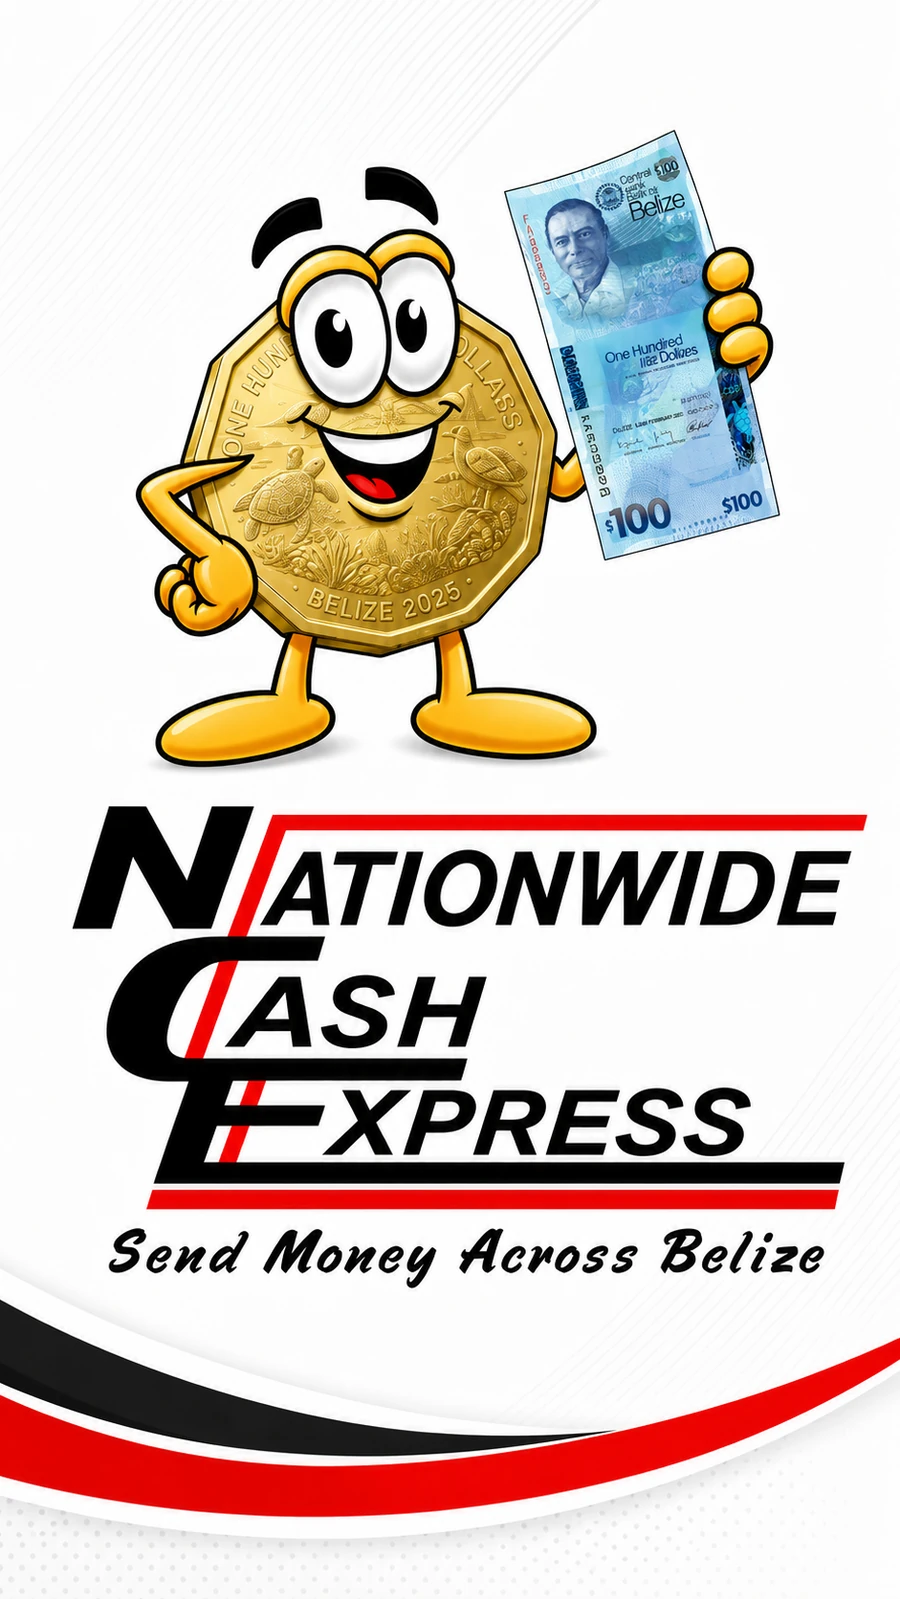
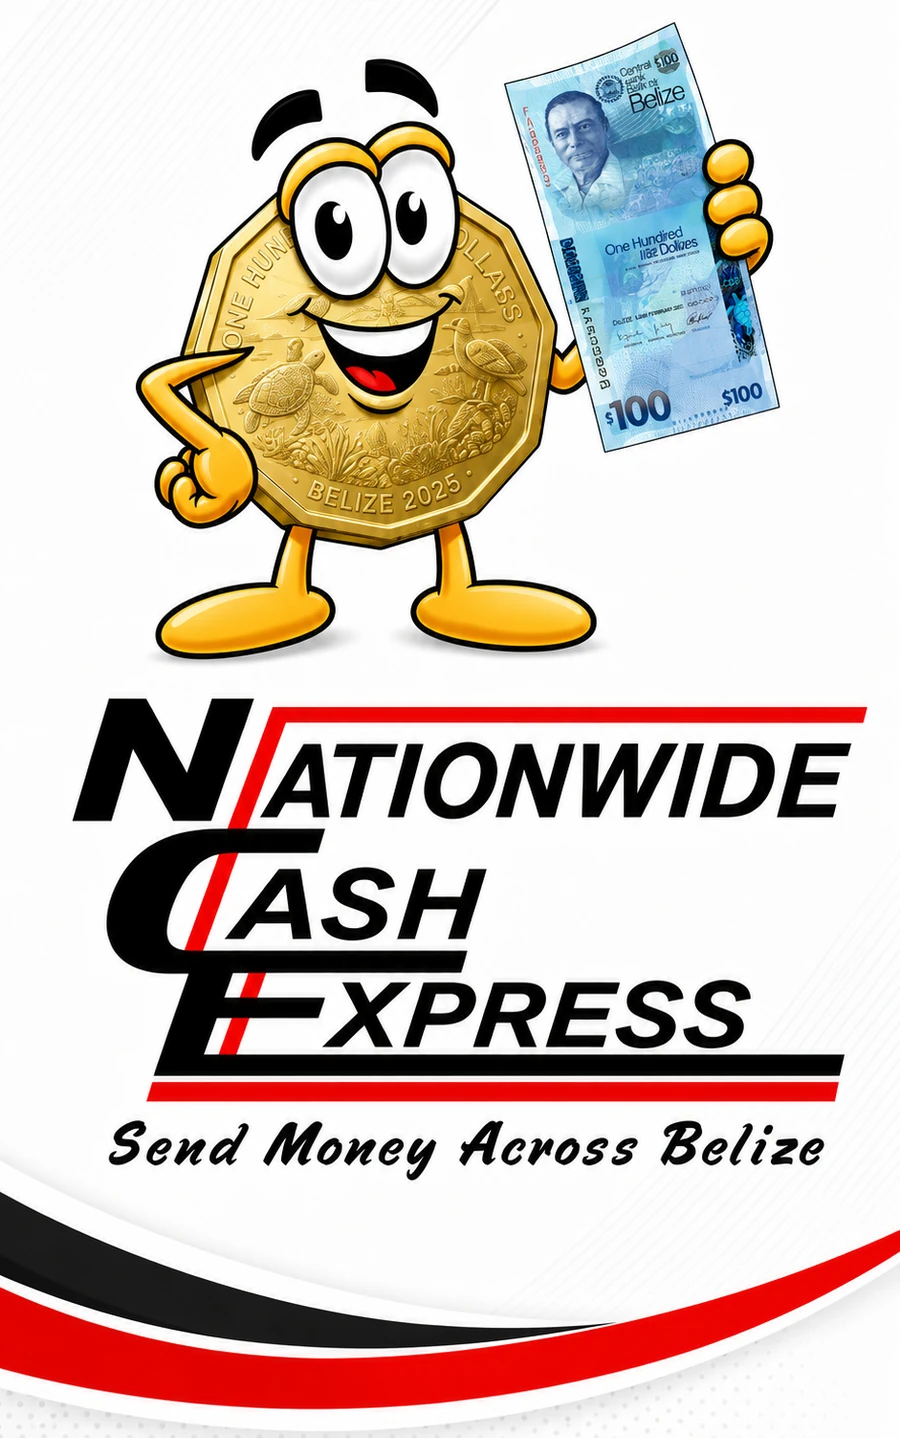
Every branch number in the call directory, tap-anywhere sound, wider flyer
Call directory

A branch's WhatsApp line is a mobile number, so it now appears as a
tel: link beside any landline instead of being described in a paragraph.
The list went from 9 rows to 29, covering every number ICB publishes,
in the row style already established: name, a Landline or Mobile tag
where a location has both, the number, and the phone icon on a red rule.
The four locations ICB publishes no number for at all are listed in the
same style, dialling the Corporate Office and labelled as such, so the
directory reads as one list rather than a list plus prose. Location cards
on the Locations page offer the same call action.

Hero film

- The lead paragraph is gone from the slide.
- The whole picture toggles sound, not just the speaker button, which was
  a small target on a phone. Anything genuinely interactive on top of it
  keeps its own behaviour.
- Fixed a bug that made the speaker button itself do nothing: the handler
  rewrote the button's innerHTML, which detached the element the click
  was being dispatched on, so the surface handler no longer recognised it
  as a control and immediately toggled the sound back. Both icons now sit
  in the button and CSS swaps them by state, and the button stops
  propagation.

Nationwide Cash Express on mobile

The supplied vertical composition carries 113px of empty ground above the
mascot and 56px below the sweep. Trimming that takes its aspect from
0.563 to 0.626, so a phone shows the lockup meaningfully larger with no
[…]

diff --git a/icb-concept/js/call.js b/icb-concept/js/call.js
@@ -1,9 +1,14 @@
 /* ============================================================================
    Call ICB — the nationwide telephone directory.
-   Built from ICB.DATA.locations (single source of truth). Every location
-   with a published landline is listed with its number as a tel: link;
-   locations that publish only a WhatsApp line are offered the WhatsApp
-   directory instead. Open with any element carrying [data-call-directory].
+   Built from ICB.DATA.locations (single source of truth).
+
+   A branch's WhatsApp line is a telephone number, so it is listed here as
+   a tel: link alongside any landline. Where a location has both, the
+   landline and the mobile are labelled so it is obvious which is which.
+   Only the handful of locations ICB publishes no number for at all fall
+   back to the Corporate Office.
+
+   Open with any element carrying [data-call-directory].
    ========================================================================== */
 window.ICB = window.ICB || {};
 
@@ -12,30 +17,63 @@ window.ICB = window.ICB || {};
 
   var overlay = null, opener = null;
 
+  /* Every callable number a location publishes: landlines first, then the
+     WhatsApp lines, which are ordinary mobile numbers and dial normally.
+     Digits only for the tel: href, exactly as the wa.me links are built. */
+  function numbersFor(location) {
+    var out = [];
+    var phones = location.phones || [];
+    var mobiles = location.whatsapps || [];
+    var both = phones.length && mobiles.length;
+
+    phones.forEach(function (ph, i) {
+      out.push({
+        label: both || phones.length > 1
+          ? "Landline" + (phones.length > 1 ? " " + (i + 1) : "")
+          : null,
+        display: ph.display,
+        tel: ph.tel
+      });
+    });
+    mobiles.forEach(function (w, i) {
+      out.push({
+        label: mobiles.length > 1
+          ? "Mobile " + (i + 1)
+          : (both ? "Mobile" : null),
+        display: w.display,
+        tel: "+" + String(w.wa).replace(/\D/g, "")
+      });
+    });
+    return out;
+  }
+
   function rowsFor(location) {
     var R = ICB.render;
-    return location.phones.map(function (ph, i) {
-      var name = location.name + (location.phones.length > 1 ? " (Line " + (i + 1) + ")" : "");
-      return '<a class="call-row" href="tel:' + R.esc(ph.tel) + '">' +
+    return numbersFor(location).map(function (n) {
+      return '<a class="call-row" href="tel:' + R.esc(n.tel) + '">' +
         '<span class="call-row-main">' +
-          '<span class="call-row-name">' + R.esc(name) + "</span>" +
-          '<span class="call-row-num">' + R.esc(ph.display) + "</span>" +
+          '<span class="call-row-name">' + R.esc(location.name) +
+            (n.label ? ' <span class="call-row-tag">' + R.esc(n.label) + "</span>" : "") +
+          "</span>" +
+          '<span class="call-row-num">' + R.esc(n.display) + "</span>" +
         "</span>" +
         '<span class="call-row-icon">' + ICB.art.glyph("phone") + "</span>" +
       "</a>";
     }).join("");
   }
 
+  function hasNumber(l) {
+    return numbersFor(l).length > 0;
+  }
+
   function directoryHtml() {
     var R = ICB.render;
-    var withPhones = ICB.DATA.locations.filter(function (l) { return l.phones && l.phones.length; });
-    /* Every location ICB does not publish a direct line for. They are still
-       reachable: some on WhatsApp, all through the Corporate Office. */
-    var noLine = ICB.DATA.locations.filter(function (l) { return !l.phones || !l.phones.length; });
-    var anyWa = noLine.some(function (l) { return l.whatsapps && l.whatsapps.length; });
+    var callable = ICB.DATA.locations.filter(hasNumber);
+    /* The few locations ICB publishes no number for at all. */
+    var noLine = ICB.DATA.locations.filter(function (l) { return !hasNumber(l); });
 
     var groups = ICB.DATA.districts.map(function (d) {
-      var locs = withPhones.filter(function (l) { return l.district === d; });
+      var locs = callable.filter(function (l) { return l.district === d; });
       if (!locs.length) return "";
       return '<section class="call-group" aria-label="' + R.esc(d) + ' District">' +
         "<h3>" + R.esc(d) + "</h3>" +
@@ -44,20 +82,23 @@ window.ICB = window.ICB || {};
     }).join("");
 
     var co = ICB.DATA.site.corporate;
+    /* These few are listed in the same row style, dialling the Corporate
+       Office, so the directory reads as one list rather than a list plus
+       a paragraph of names. */
     var waNote = noLine.length
-      ? '<div class="call-note">' +
-          "<h3>Other locations</h3>" +
-          "<p>" + R.esc(noLine.map(function (l) { return l.name; }).join(", ")) +
-          ". The Corporate Office can connect you with any of these.</p>" +
-          '<div class="call-note-actions">' +
-            '<a class="btn btn-sm btn-primary" href="tel:' + R.esc(co.phoneTel) + '">' +
-              ICB.art.glyph("phone") + "<span>Call " + R.esc(co.phoneDisplay) + "</span></a>" +
-            (anyWa
-              ? '<button type="button" class="btn btn-sm btn-outline" data-wa-directory>' +
-                  ICB.art.waIcon() + "<span>WhatsApp directory</span></button>"
-              : "") +
-          "</div>" +
-        "</div>"
+      ? '<section class="call-group call-group--via" aria-label="Locations reached through the Corporate Office">' +
+          "<h3>Through the Corporate Office</h3>" +
+          noLine.map(function (l) {
+            return '<a class="call-row" href="tel:' + R.esc(co.phoneTel) + '">' +
+              '<span class="call-row-main">' +
+                '<span class="call-row-name">' + R.esc(l.name) +
+                  ' <span class="call-row-tag">Corporate Office</span></span>' +
+                '<span class="call-row-num">' + R.esc(co.phoneDisplay) + "</span>" +
+              "</span>" +
+              '<span class="call-row-icon">' + ICB.art.glyph("phone") + "</span>" +
+            "</a>";
+          }).join("") +
+        "</section>"
       : "";
 
     return '' +

diff --git a/icb-concept/js/views/home.js b/icb-concept/js/views/home.js
@@ -89,7 +89,6 @@ ICB.views = ICB.views || {};
       kind: "video",
       eyebrow: "ICB in Motion",
       title: "Life Happens Fast.",
-      lead: "ICB\u2019s campaign film, shot in Belize.",
       actions: [
         { label: "Explore insurance", href: "#/insurance", primary: true },
         { label: "About ICB", href: "#/about" }
@@ -111,14 +110,16 @@ ICB.views = ICB.views || {};
         '<div class="hero-scrim hero-scrim--light"></div></div>';
     }
 
-    /* Brand lockup. A <picture> picks the composition that suits the
-       shape of the viewport: the banner above 768px, the vertical poster
-       below it. Both are contained, so neither is ever cropped or
-       stretched, and the wordmark stays legible at both sizes. */
+    /* Brand lockup. A <picture> picks the composition that suits the shape
+       of the viewport, which is about proportion rather than device: the
+       banner from 561px up, where the hero box is wide enough to carry a
+       landscape lockup, and the vertical poster on phones. Both are
+       contained, so neither is ever cropped or stretched, and the
+       wordmark stays legible at both sizes. */
     if (s.kind === "brand") {
       return '<div class="hero-media hero-media--brand" aria-hidden="true">' +
         "<picture>" +
-          '<source media="(min-width: 769px)" data-asset-srcset="' + R.esc(s.srcWide) + '">' +
+          '<source media="(min-width: 561px)" data-asset-srcset="' + R.esc(s.srcWide) + '">' +
           '<img data-asset="' + R.esc(s.srcTall) + '" alt="">' +
         "</picture>" +
       "</div>";
@@ -145,7 +146,10 @@ ICB.views = ICB.views || {};
       '<div class="hero-scrim" aria-hidden="true"></div>' +
       (media.heroVideoAvailable
         ? '<button type="button" class="hero-sound" data-hero-sound aria-pressed="false"' +
-            ' aria-label="Turn on sound for the ICB film">' + ICB.art.glyph("sound-off") + "</button>" +
+            ' aria-label="Turn on sound for the ICB film">' +
+            '<span class="s-off">' + ICB.art.glyph("sound-off") + "</span>" +
+            '<span class="s-on">' + ICB.art.glyph("sound-on") + "</span>" +
+          "</button>" +
           '<span class="hero-sound-hint" data-hero-hint aria-hidden="true">Tap for sound</span>'
         : "") +
       '<button type="button" class="play-btn hero-play" data-hero-play hidden' +
@@ -235,11 +239,14 @@ ICB.views = ICB.views || {};
       var btn = slide.querySelector("[data-hero-sound]");
       var hint = slide.querySelector("[data-hero-hint]");
       if (!btn) return;
+      /* Only the state changes. Rewriting innerHTML here would detach the
+         very element a click is being dispatched on, and the surface
+         handler below would then fail to recognise it as a control and
+         toggle the sound straight back. */
       btn.setAttribute("aria-pressed", String(on));
       btn.setAttribute("aria-label", on
         ? "Turn off sound for the ICB film"
         : "Turn on sound for the ICB film");
-      btn.innerHTML = ICB.art.glyph(on ? "sound-on" : "sound-off");
       // The prompt is only useful until the visitor has answered it.
       if (hint) hint.hidden = on || soundWanted;
     }
@@ -332,15 +339,30 @@ ICB.views = ICB.views || {};
         });
       }
 
+      function toggleSound() {
+        var turningOn = !sound || sound.getAttribute("aria-pressed") !== "true";
+        applySound(slide, video, turningOn);
+        var hint = slide.querySelector("[data-hero-hint]");
+        if (hint) hint.hidden = true;
+        if (turningOn && video.paused) startFilm(slide);
+      }
+
       if (sound) {
-        sound.addEventListener("click", function () {
-          var turningOn = sound.getAttribute("aria-pressed") !== "true";
-          applySound(slide, video, turningOn);
-          if (turningOn) {
-            var hint = slide.querySelector("[data-hero-hint]");
-            if (hint) hint.hidden = true;
-            if (video.paused) startFilm(slide);
-          }
+        sound.addEventListener("click", function (e) {
+          e.stopPropagation();
+          toggleSound();
+        });
+      }
+
+      /* The speaker button is a small target on a phone. The whole film
+         surface toggles sound as well, so a tap anywhere on the picture
+         works. Anything genuinely interactive on top of it keeps its own
+         behaviour. */
+      var surface = slide.querySelector(".hero-media--film");
+      if (surface) {
+        surface.addEventListener("click", function (e) {
+          if (e.target.closest("a, button")) return;
+          toggleSound();
         });
       }
 

diff --git a/icb-concept/css/site.css b/icb-concept/css/site.css
@@ -596,7 +596,7 @@ button {
 /* --- Film slide -------------------------------------------------------
    Poster first, video only once the visitor asks for it. Nothing here
    is muted and nothing autoplays. */
-.hero-media--film { background: #0B0B0C; }
+.hero-media--film { background: #0B0B0C; cursor: pointer; }
 .hero-film-poster {
   position: absolute;
   inset: 0;
@@ -637,6 +637,10 @@ button {
   transition: background-color var(--t-fast) var(--ease), border-color var(--t-fast) var(--ease);
 }
 .hero-sound .glyph { width: 21px; height: 21px; }
+.hero-sound .s-off, .hero-sound .s-on { display: flex; }
+.hero-sound .s-on { display: none; }
+.hero-sound[aria-pressed="true"] .s-off { display: none; }
+.hero-sound[aria-pressed="true"] .s-on { display: flex; }
 .hero-sound[hidden] { display: none; }
 .hero-sound[aria-pressed="true"] { background: var(--c-cta); border-color: transparent; }
 @media (hover: hover) and (pointer: fine) {
@@ -855,7 +859,8 @@ button {
   /* The vertical composition is almost exactly the hero's own aspect, so
      containing it costs almost no space and keeps the whole lockup,
      including its red and black sweep, intact. */
-  .hero-media--brand img { padding: var(--sp-2) var(--sp-2) 72px; }
+  /* Below 769px the slider chrome sits lower, so less needs reserving. */
+  .hero-media--brand img { padding: var(--sp-3) var(--sp-3) 64px; }
   .hero-slide--light .hero-media--contain img { object-fit: contain; object-position: center center; }
   .hero-slide--light .hero-scrim--light { display: none; }
   .hero-slide--light { background: var(--c-bg); }
@@ -867,6 +872,14 @@ button {
   .card-glyph { width: 40px; height: 40px; margin-top: calc(-1 * (var(--sp-4) + 20px)); }
   .card-desc { font-size: 0.875rem; }
   .card-body h3 { font-size: 1.2rem; }
+}
+
+/* Phones get the vertical lockup, trimmed of its empty ground so it can
+   run close to edge to edge while still being contained. Containing
+   matters here: covering cropped a quarter of it on a short phone, which
+   ate into the sweep at the foot of the artwork. */
+@media (max-width: 560px) {
+  .hero-media--brand img { padding: 0 0 60px; }
 }
 
 /* ============================ Action bar ============================ */
@@ -2593,6 +2606,21 @@ select.input {
 .call-row-name { display: block; font-weight: 600; color: var(--c-brand); }
 .call-row:hover .call-row-name { color: var(--c-cta); }
 .call-row-num { display: block; font-size: var(--fs-300); color: var(--c-text-soft); font-variant-numeric: tabular-nums; }
+/* Tells a landline from a mobile where a location publishes both. */
+.call-row-tag {
+  font-size: 0.6875rem;
+  font-weight: 700;
+  letter-spacing: 0.1em;
+  text-transform: uppercase;
+  color: var(--c-text-soft);
+  background: var(--c-tint);
+  border-radius: 999px;
+  padding: 2px 7px;
+  margin-left: 6px;
+  vertical-align: 1px;
+  white-space: nowrap;
+}
+.call-group--via .call-row-name { color: var(--c-text); }
 .call-row-icon {
   flex: none;
   width: 40px; height: 40px;

diff --git a/icb-concept/js/render.js b/icb-concept/js/render.js
@@ -113,9 +113,15 @@ window.ICB = window.ICB || {};
       out += '<a class="msg-action" href="tel:' + esc(l.phones[i].tel) + '">' + ICB.art.glyph("phone") +
         "<span>Call " + esc(l.phones[i].display) + "</span></a>";
     }
-    /* No direct line published for this location, so the Corporate Office
-       number is offered and clearly labelled as the Corporate Office. */
-    if (!l.phones.length && l.corporateLine) {
+    /* A WhatsApp line is a mobile number, so it is offered as a call too. */
+    (l.whatsapps || []).forEach(function (w) {
+      var digits = String(w.wa).replace(/\D/g, "");
+      out += '<a class="msg-action" href="tel:+' + esc(digits) + '">' + ICB.art.glyph("phone") +
+        "<span>Call " + esc(w.display) + "</span></a>";
+    });
+    /* Only where ICB publishes no number of any kind does the Corporate
+       Office stand in, clearly labelled as such. */
+    if (!l.phones.length && !(l.whatsapps || []).length && l.corporateLine) {
       var co = ICB.DATA.site.corporate;
       out += '<a class="msg-action msg-action--corp" href="tel:' + esc(co.phoneTel) + '">' + ICB.art.glyph("phone") +
         "<span>Corporate Office " + esc(co.phoneDisplay) + "</span></a>";

diff --git a/icb-concept/IMAGES.md b/icb-concept/IMAGES.md
@@ -86,8 +86,16 @@ Two supplied compositions, chosen by a `<picture>` element:
 
 | Viewport | File | Source |
 | --- | --- | --- |
-| 769px and up | `assets/img/brands/nce-wide.webp` | 1672x941 banner, resized to 1600x900 |
-| below 769px | `assets/img/brands/nce-tall.webp` | 941x1672 poster, resized to 900x1599 |
+| 561px and up | `assets/img/brands/nce-wide.webp` | 1672x941 banner, resized to 1600x900 |
+| below 561px | `assets/img/brands/nce-tall.webp` | 941x1672 poster, trimmed of 113px of empty ground at the top and 56px at the foot, resized to 900x1438 |
+
+The breakpoint is about proportion, not device: from 561px the hero box
+is wide enough to carry a landscape lockup. The vertical poster is
+trimmed because the supplied file carries empty ground above the mascot
+and below the sweep; removing most of it takes the aspect from 0.563 to
+0.626 and lets a phone show the lockup meaningfully larger. Measured
+share of viewport width: 55% at 1440px, 92% at 834px, 97% at 768px, 84%
+on a short phone, 100% on a tall one.
 
 Both are `object-fit: contain`, so neither is cropped or stretched at any
 size, and the bottom inset keeps the slider chrome clear of the artwork.

diff --git a/icb-concept/README.md b/icb-concept/README.md
@@ -86,9 +86,10 @@ Supplied by the client and integrated in this pass:
 
 The hero's fourth slide plays the film as ambient motion the moment the
 slide comes up. No browser will start a video with audio unprompted, so
-it opens muted and a sound control sits in the corner: one tap is the
-gesture that unlocks audio, and the choice is remembered for the session
-so later visits to the slide start with sound already on. Looping is
+it opens muted and sound is one tap away: the whole picture is a toggle,
+not just the speaker button in the corner, and the choice is remembered
+for the session so later visits to the slide start with sound already
+on. Looping is
 dropped once the sound is on, and the carousel is held so the film is not
 slid away mid-sentence. Leaving the slide stops it, so audio never
 carries under another slide. If a browser refuses even muted playback, a
